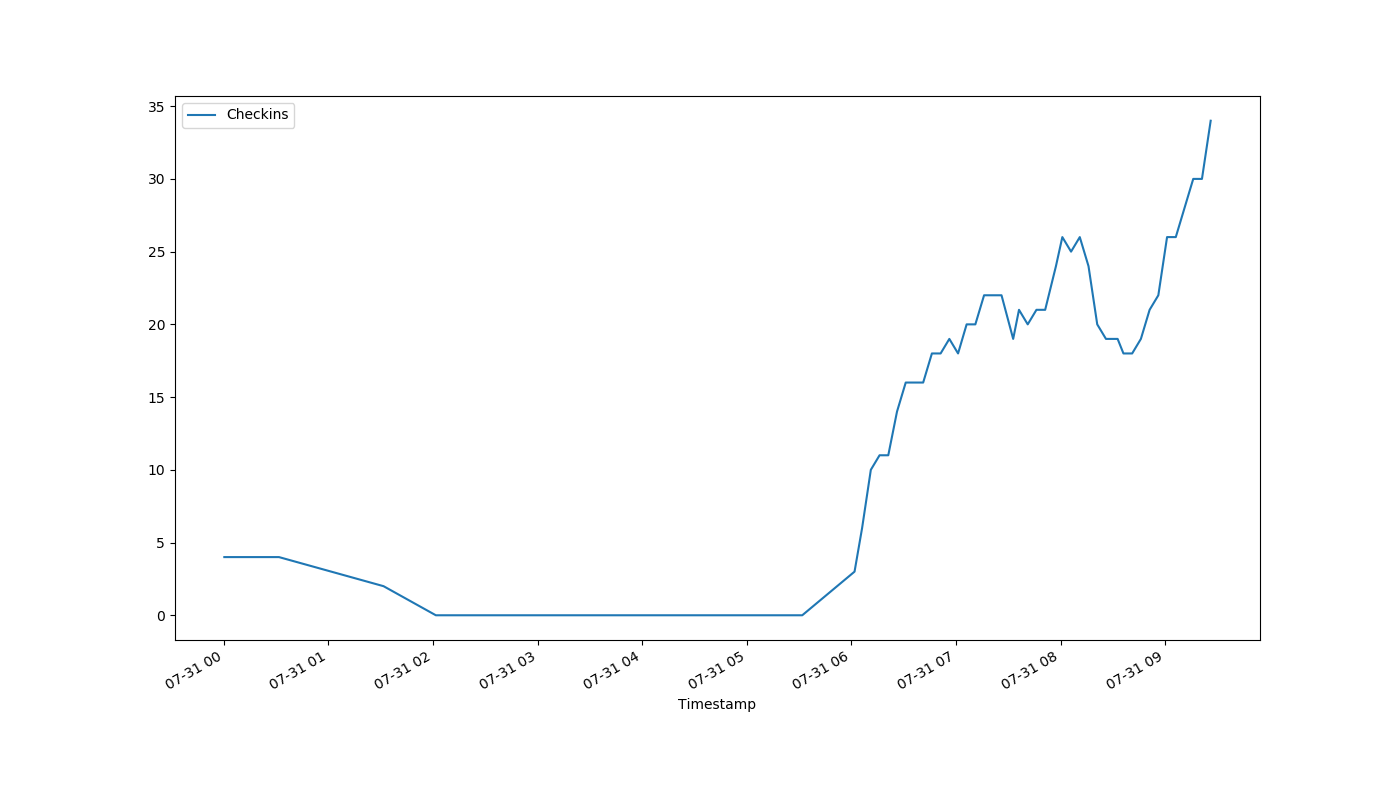
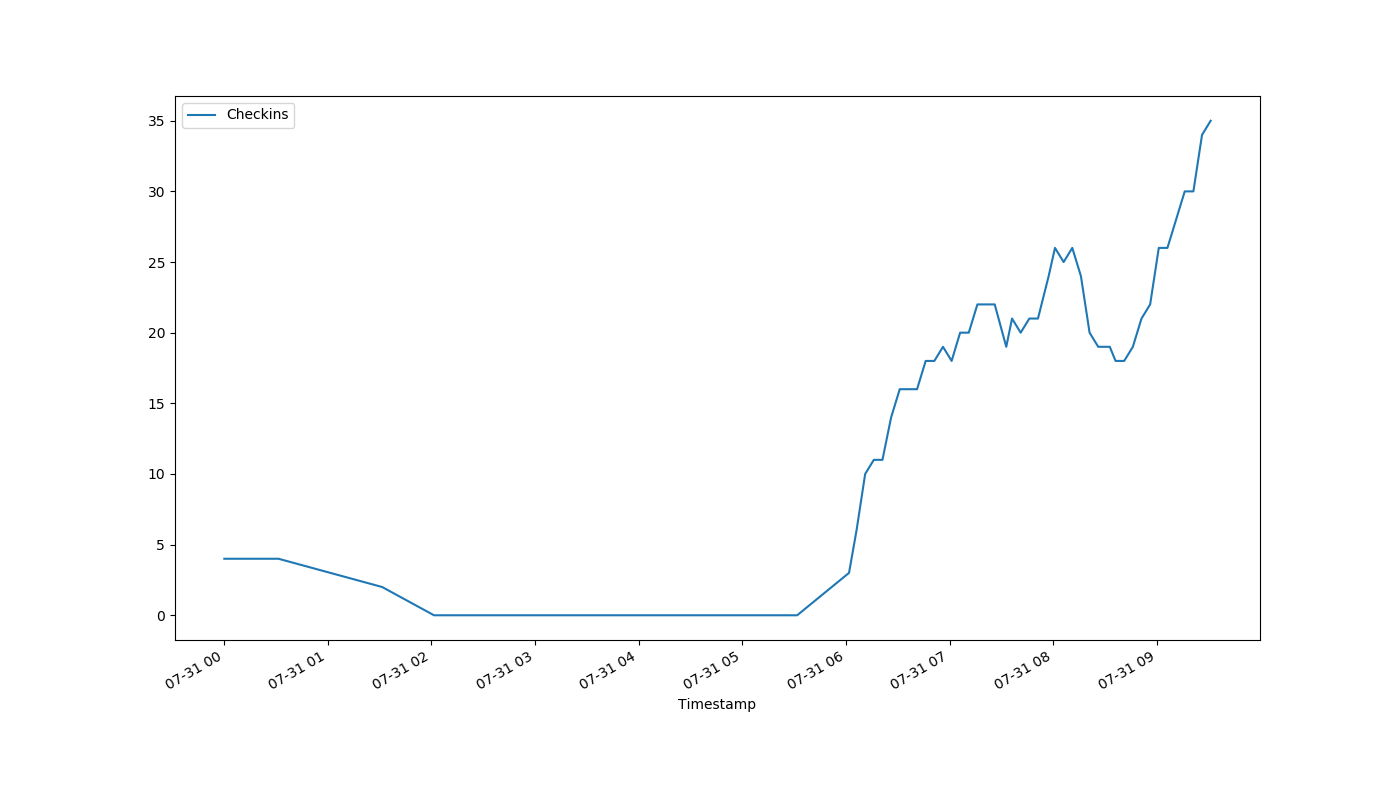
auto-Jul-31-09:32:46

diff --git a/index.html b/index.html
@@ -1,1 +1,1 @@
-<!DOCTYPE html><html><head><meta http-equiv="refresh" content="30"><link rel='stylesheet' href='holmcurrent.css'></head><body><p id='count'>34</p><div id='graph-wrap'><img id='graph' src='holmgraph-Jul-31.png'></div><p id='updated'>Last updated 09:26:09 / 09:26:08</p></body></html>
+<!DOCTYPE html><html><head><meta http-equiv="refresh" content="30"><link rel='stylesheet' href='holmcurrent.css'></head><body><p id='count'>35</p><div id='graph-wrap'><img id='graph' src='holmgraph-Jul-31.png'></div><p id='updated'>Last updated 09:31:09 / 09:31:09</p></body></html>
